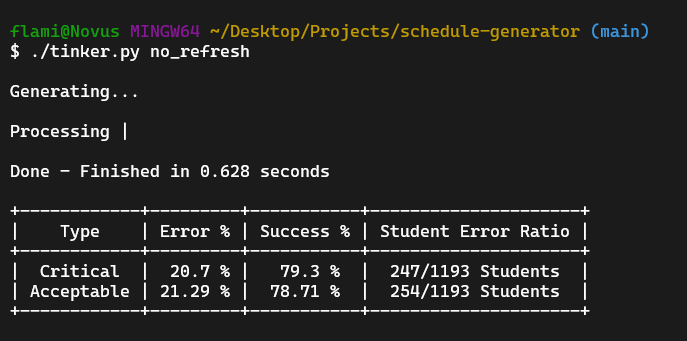
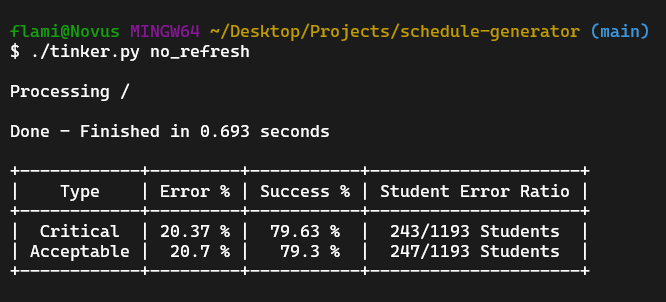
update preview / clean command

Changed region(s): [[0.0, 0.3576, 0.9009, 0.9238], [0.0, 0.0596, 0.991, 0.2086], [0.0, 0.2384, 0.2102, 0.3278]]

diff --git a/tinker.py b/tinker.py
@@ -47,7 +47,7 @@ def errorOutput(students) -> Tuple[PrettyTable, dict, dict]:
 if __name__ == '__main__':
   
   if len(sys.argv) == 1:
-    print('\nGenerating...\n')
+    print()
 
     st = time() # Start time
 
@@ -84,7 +84,7 @@ if __name__ == '__main__':
       json.dump(timetable, outfile, indent=2)
 
   elif sys.argv[1].lower() == "no_refresh":
-    print('\nGenerating...\n')
+    print()
 
     st = time() # Start time
 
